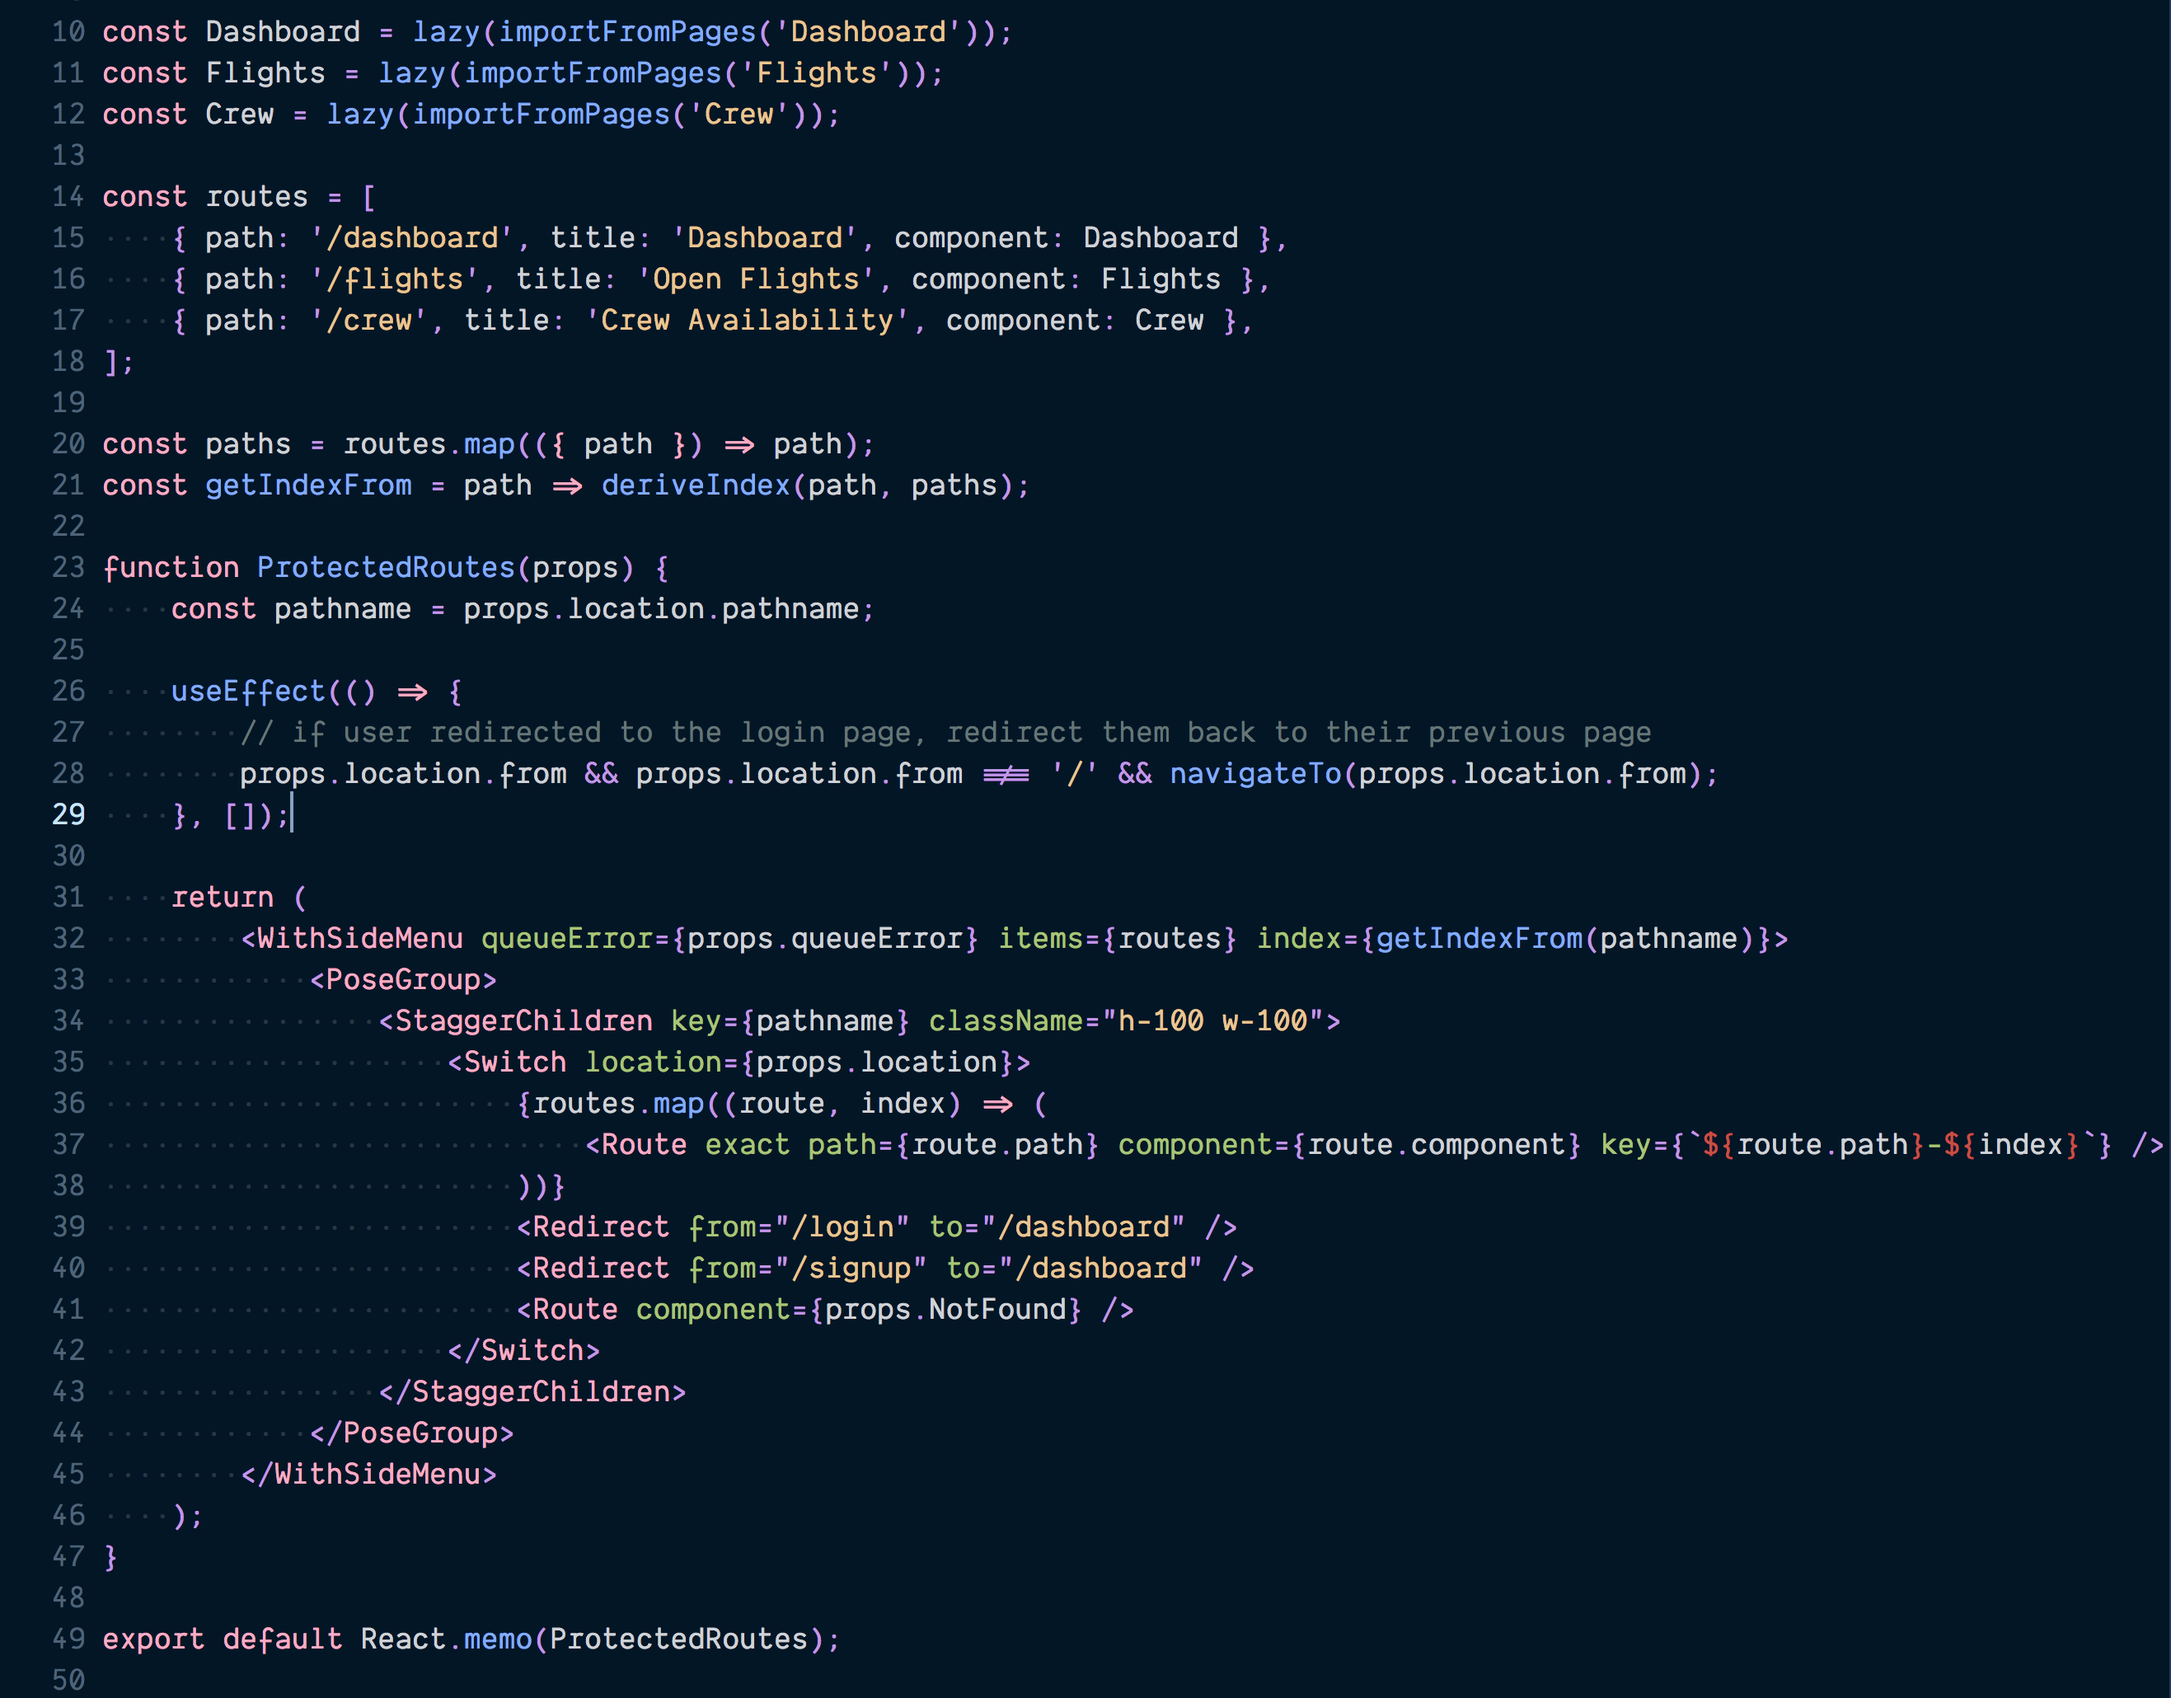
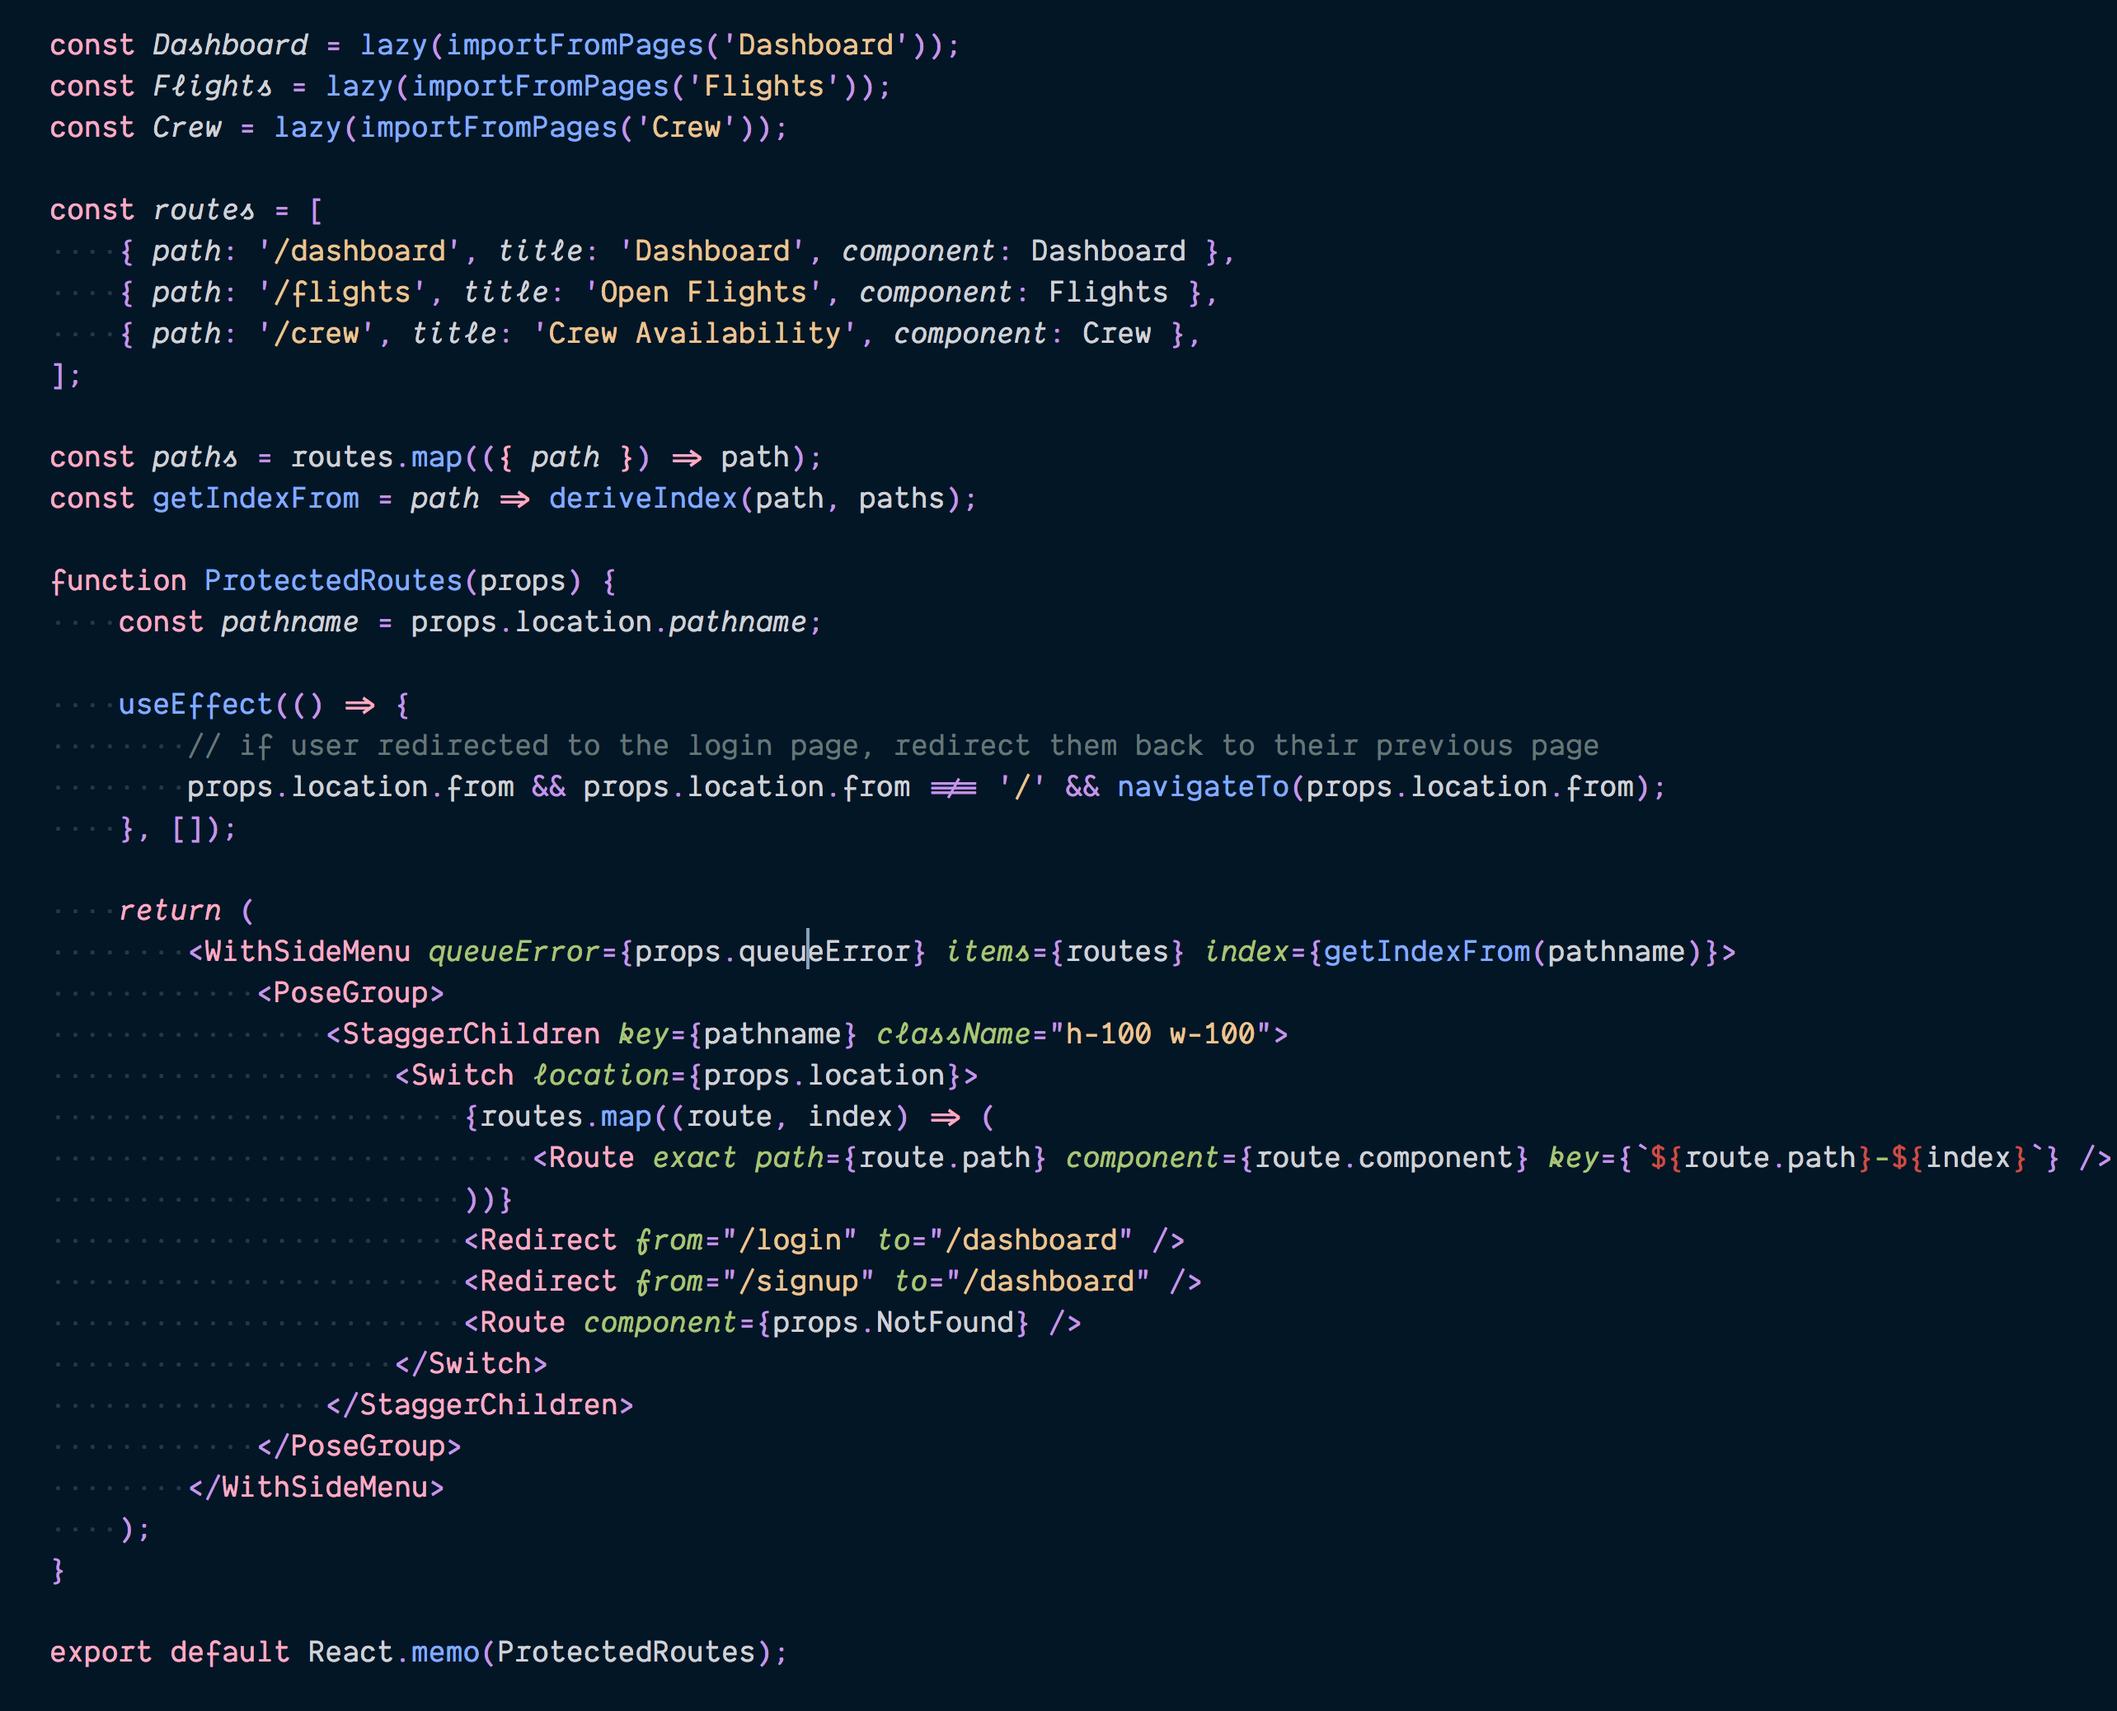
add italic to tag, update readme & changelog, bump version

diff --git a/README.md b/README.md
@@ -4,7 +4,7 @@ A soft, yet vibrant theme based on [Sarah Drasner's Night Owl](https://marketpla
 
 ## HTML
 
-![HTML](https://raw.githubusercontent.com/cevr/overnight/master/screenshots/html.png)
+![HTML](https://raw.githubusercontent.com/cevr/overnight/master/screenshots/html-screenshot.png)
 
 ## React
 

diff --git a/CHANGELOG.md b/CHANGELOG.md
@@ -2,6 +2,10 @@
 
 All notable changes to the "overnight" extension will be documented in this file.
 
+## [1.3.2]
+
+-   Add italic to tag attributes
+
 ## [1.3.0]
 
 ### Added
